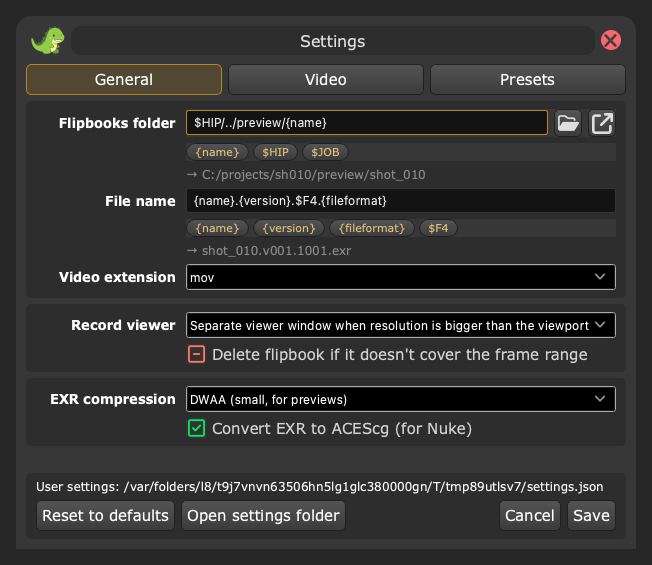
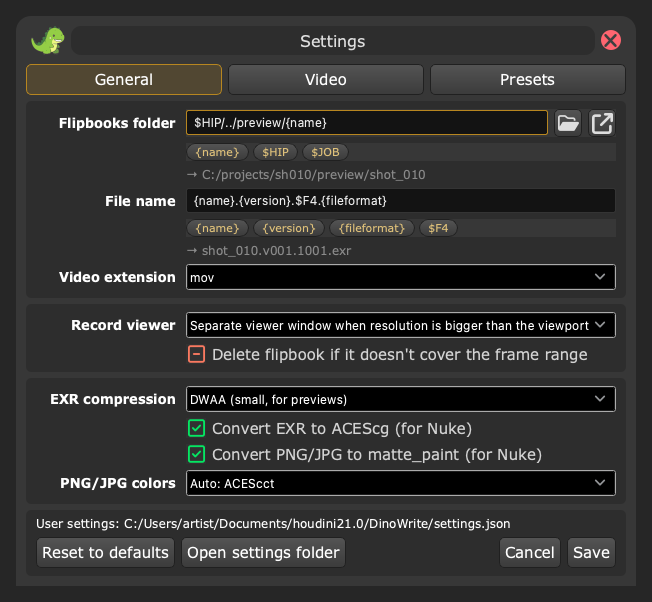
Settings: 'PNG/JPG colors' label fits; README images with a fake OCIO config and settings path

diff --git a/docs/make_images.py b/docs/make_images.py
@@ -69,12 +69,16 @@ def fakeHoudini(temp: Path):
 
     viewer = types.SimpleNamespace(cameraName=lambda: "shotCam", cameraPixelAspect=lambda: 1.0,
                                    cameraResolution=lambda: (3840, 2160), cameraAspect=lambda: 16 / 9,
+                                   viewportSize=lambda: (1712, 963),
                                    getPaneTab=lambda: types.SimpleNamespace(qtScreenGeometry=lambda: 1 / 0))
     viewport.HouViewport.__init__ = lambda self, kwargs: self.__dict__.update(viewer.__dict__)
     ffmpeg.findFFmpeg = lambda custom="": "$HFS/bin/hffmpeg"
     ffmpeg.availableEncoders = lambda binary: {"h264_mf", "h264_nvenc", "mpeg4"}
     acescg.findOiiotool = lambda custom="": "$HFS/bin/hoiiotool"
     acescg.oiiotoolVersion = lambda tool: ()
+    acescg.configInfo = lambda config_path=None: dict(
+        name="cg-config-v2.2.0_aces-v1.3_ocio-v2.4", ocio=(2, 4), matte_paint="ACEScct", acescct="ACEScct",
+        srgb_texture="sRGB - Texture")
     helpers.freeSpace = lambda path: 512 * 1024 ** 3
     return main_window
 
@@ -162,7 +166,11 @@ def main():
 
         from DinoWrite.gui import settings_dialog
         settings_dialog.expand = lambda path: path.replace("$HIP", "C:/projects/sh010/houdini")  # not the temp folder
+        from DinoWrite import config as dinowrite_config
+        real_path = dinowrite_config.userSettingsPath
+        dinowrite_config.userSettingsPath = lambda: Path(f"{PREF_DIR}/DinoWrite/settings.json")  # shown, not the temp
         dialog = SettingsDialog()
+        dinowrite_config.userSettingsPath = real_path
         stopFade(dialog)
         dialog.show()
         QTest.qWait(700)

diff --git a/gui/settings_dialog.py b/gui/settings_dialog.py
@@ -285,7 +285,7 @@ class SettingsDialog(RoundedWindow, QDialog):
                            ("Video extension", self.fb_video_ext)]),
             self._section([("Record viewer", self.true_resolution), ("", self.delete_incomplete)]),
             self._section([("EXR compression", self.exr_compression), ("", self.exr_acescg),
-                           ("", self.ldr_matte_paint), ("PNG/JPG colorspace", self.ldr_colorspace)]))
+                           ("", self.ldr_matte_paint), ("PNG/JPG colors", self.ldr_colorspace)]))
 
     def _videoTab(self) -> QWidget:
         self.delete_input = widgets.CheckBox("Delete image sequence after successful conversion")
